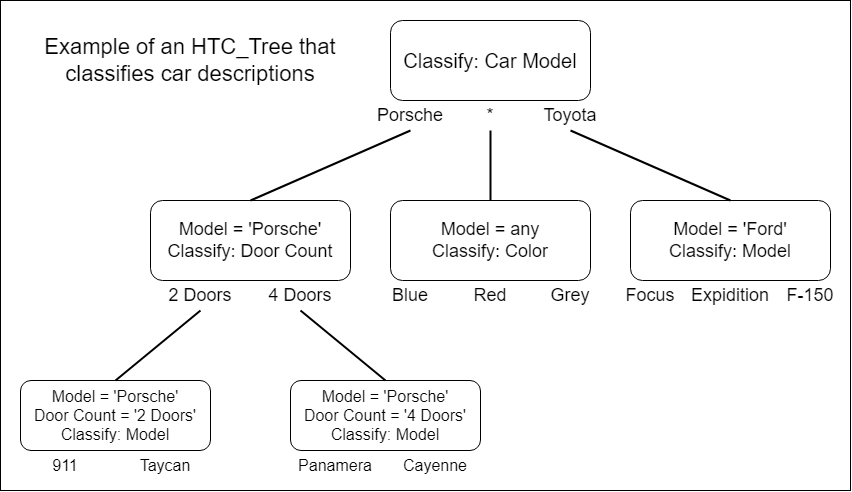
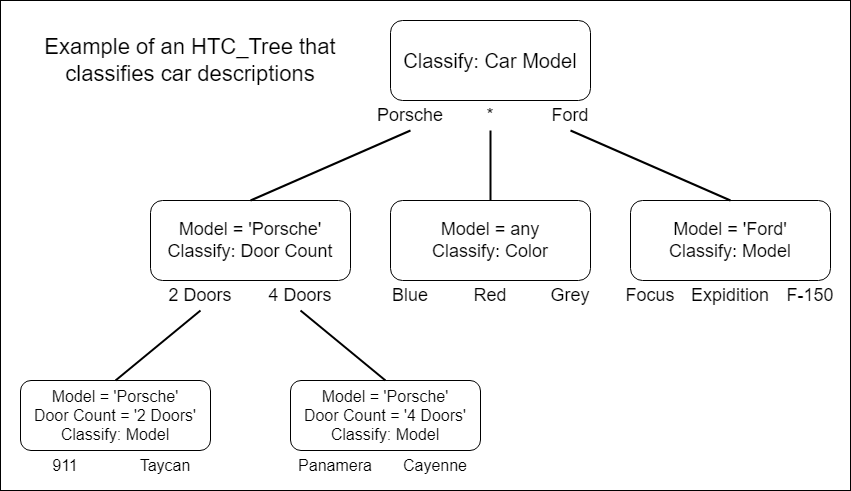
Documentation, bug fixes, print messages and verbose in node Predict
Added to README
Added more documentation
Added verbose to ClassificationNode Predict as kwarg
Fixed bug in predictions where sub node predictions didn't persist
Fixed diagram
Added flush=True to all print statements as it was hard to read otherwise
Updated some verbose messages in prediction
Predictions now replace 'NaN' with np.nan

diff --git a/module.py b/module.py
@@ -43,7 +43,6 @@ class Serializer:
         
         # Serializing Object:
         with open(file_path, 'wb') as file:
-            # if verbose: print(f"Saving {self} at '{file_path}' as Pickle... ", end='', flush=True)
             pickle.dump(self, file)
             if verbose: print(f"Object {self} Saved. Operation took {int((start_time-time.time())/60)}:{((start_time-time.time())%60):0.2f}s", flush=True)
 
@@ -128,7 +127,7 @@ class Ensemble(Serializer, Deserializer):
 
         if len(clean_data[self.train_targets].unique()) == 1:
             # warnings.warn(f"'{train_targets}' given training data with a single class.\nAll predictions will be this single class: '{clean_data[self.train_targets].unique()[0]}'.")
-            print(f"Warning: '{train_targets}' given training data with a single valid class. All predictions will be '{clean_data[self.train_targets].unique()[0]}'.")
+            print(f"Warning: '{train_targets}' given training data with a single valid class. All predictions will be '{clean_data[self.train_targets].unique()[0]}'.", flush=True)
             self.single_class = clean_data[self.train_targets].unique()[0]
             self.ready = True
             self.train_flag = False
@@ -206,23 +205,21 @@ class Ensemble(Serializer, Deserializer):
         
         if not input_column: input_column = self.train_features
         if not prediction_title: prediction_title = self.train_targets
-        if verbose: print(f"Ensemble predicting for {prediction_title}")
 
         if self.single_class != None:
             output = input.copy(deep=True)
             output[prediction_title] = self.single_class
-            output[prediction_title + " confidence"] = 1
+            output[prediction_title + " confidence"] = 1.0
+            if verbose: print(f"Fixed Label, predictions will be '{self.single_class}'", flush=True)
             return output
 
         predictions_df = pd.DataFrame(index=input.index)
 
+        if verbose: print(f"Ensemble predicting for {prediction_title}... ", end='', flush=True)
+
         # Run predictions for each model in ensemble:
         for model in self.models:
-            if verbose: print(f"model {self.models.index(model)} of {len(self.models)} predicting", end='\r', flush=True)
             predictions_df[str(self.models.index(model))] = model.Predict(input, input_column)
-        
-        # print(predictions_df.head())
-        if verbose: print(f"All Learners made predictions", end='\n\n', flush=True)
 
         # Tally model votes:
         predictions_df.reindex(input.index)
@@ -232,6 +229,8 @@ class Ensemble(Serializer, Deserializer):
         else:
             output[prediction_title] = predictions_df.mode(axis=1)[0]
             output[prediction_title + " confidence"] = predictions_df.apply(self._simple_vote, axis=1)
+
+        if verbose: print(f"Done.", flush=True)
 
         return output
   
@@ -418,7 +417,7 @@ class ClassificationNode(Serializer, Deserializer):
                     serializer(self.ensemble, self.ensemble_path, **kwargs)
 
         elif verbose:
-            print(f"'{self.ensemble.train_targets}' ensemble already trained.")
+            print(f"'{self.ensemble.train_targets}' ensemble already trained.", flush=True)
 
         # Check if this is a leaf node:
         if self.branches not in [None, {}]:
@@ -450,9 +449,14 @@ class ClassificationNode(Serializer, Deserializer):
         
 
     def Predict(self, input:pd.DataFrame, shallow=False, **kwargs) -> pd.DataFrame:
+        # Parse Kwargs:
+        verbose = 'verbose' in kwargs and kwargs['verbose']
+
         # Node ensemble making predictions:
         node_predictions = self.ensemble.Predict(input, **kwargs)
-        
+        if verbose: pass
+
+
         # Check if this is a leaf node:
         if self.branches not in [None, {}] and shallow == False:
             # For each key classification:
@@ -465,23 +469,32 @@ class ClassificationNode(Serializer, Deserializer):
                 
                 # Check if sub_node_data is empty:
                 if sub_node_data.shape[0] == 0:
-                    # print(f"no data to use for '{self.prediction_title}' at '{branch}'. {sub_node_data.shape[0]}/{node_predictions.shape[0]}")
+                    if verbose: print(f"No data present for '{self.prediction_title}'='{branch}'. {sub_node_data.shape[0]}/{node_predictions.shape[0]}", flush=True)
                     continue
+                elif verbose: print(f"Data present for '{self.prediction_title}'='{branch}.  {sub_node_data.shape[0]}/{node_predictions.shape[0]}", flush=True)
+                
+                sub_node_predictions = sub_node_data
+                # Set this as we want to keep each nodes predictions we have to
+                # pass them to the next as this is how we merge different node's
+                #  prediction DataFrames
 
                 # Run predictions for each branch: (New Columns)
                 for node in self.branches[branch]:
-                    # Recusrsive Call:
-                    sub_node_predictions = node.Predict(input=sub_node_data, **kwargs)
-                    # print(sub_node_predictions.head())
-                    if branch != '*':
+                    # Recusrsive Call: (each node's predictions are passed to the next here)
+                    sub_node_predictions = node.Predict(input=sub_node_predictions, **kwargs)
+
+                    # Merging Prediction DataFrames:
+                    if branch != '*': # Specific Label Branch:
                         column_indexer = sub_node_predictions.columns
                         row_indexer = node_predictions[self.prediction_title] == branch
                         node_predictions.loc[row_indexer, column_indexer] = sub_node_predictions[column_indexer]
                         node_predictions.loc[row_indexer, column_indexer] = sub_node_predictions[column_indexer]
-                    else:
-                        node_predictions = sub_node_predictions                    
-
-        return node_predictions
+                    else: # Wild Card Branch:
+                        node_predictions = sub_node_predictions 
+                
+                if verbose: print(f"All predictions made for '{self.prediction_title}'='{branch}'\n", flush=True)
+  
+        return node_predictions.replace('NaN', np.nan)
 
 
     def gernate_design(self, **kwargs) -> dict:
@@ -696,7 +709,7 @@ class ClassificationNode(Serializer, Deserializer):
         The <force_true> set of conditions are sorted out by passing this argument to _recursive_set_train_flags.
         '''
         if True not in self._recursive_set_train_flags(force_true=force_true, verbose=verbose, save_on_train=save_on_train, serializer=serializer):
-            if verbose: print(f"All models Trained, re-training all models.\n")
+            if verbose: print(f"All models Trained, re-training all models.\n", flush=True)
             if not force_true:
                 self._recursive_set_train_flags(force_true=True, verbose=verbose, save_on_train=save_on_train, serializer=serializer)
 
@@ -784,18 +797,18 @@ class ClassificationNode(Serializer, Deserializer):
 
         for branch in list(self.branches.keys()):
             if branch not in temp_node.branches.keys():
-                if verbose: print(f"Branch '{branch}' no longer present, removing")
+                if verbose: print(f"Branch '{branch}' no longer present, removing", flush=True)
                 self.branches.pop(branch)
 
         for branch in temp_node.branches.keys():
-            if verbose: print(f"\nBranch: '{branch}'", end=' ')
+            if verbose: print(f"\nBranch: '{branch}'", end=' ', flush=True)
 
             if branch not in self.branches.keys():
-                if verbose: print('new branch')
+                if verbose: print('new branch', flush=True)
                 self.branches[branch] = temp_node.branches[branch]
 
             else:
-                if verbose: print('not new. Checking sub nodes:')
+                if verbose: print('not new. Checking sub nodes:', flush=True)
                 current_node_titles = {}
                 for node in self.branches[branch]:
                     current_node_titles[node.prediction_title] = self.branches[branch].index(node)
@@ -807,11 +820,11 @@ class ClassificationNode(Serializer, Deserializer):
                 # Adding new nodes in this branch, and recursive call for already present nodes:
                 for title in temp_node_titles.keys():
                     if title not in current_node_titles.keys():
-                        if verbose: print(f"new Sub node: {title}")
+                        if verbose: print(f"new Sub node: {title}", flush=True)
                         self.branches[branch].append(temp_node.branches[branch][temp_node_titles[title]])
                     else:
                         # Recursive Call:
-                        if verbose: print(f"Not new Sub node: {title}")
+                        if verbose: print(f"Not new Sub node: {title}", flush=True)
                         self.branches[branch][current_node_titles[title]]._recursize_update(
                             temp_node.branches[branch][temp_node_titles[title]],
                             verbose=verbose
@@ -820,7 +833,7 @@ class ClassificationNode(Serializer, Deserializer):
                 # Removing nodes in this branch that are not present in new design:
                 for node in self.branches[branch]:
                     if node.prediction_title not in temp_node_titles.keys():
-                        if verbose: print(f"Sub node {title} no longer present. removing...")
+                        if verbose: print(f"Sub node {title} no longer present. removing...", flush=True)
                         self.branches[branch].pop(self.branches[branch].index(node))
 
     # Static Class Methods:

diff --git a/README.md b/README.md
@@ -9,10 +9,48 @@ This is a tree with each node representing a single classification and subsequen
 <br>This design would assume that, for whatever reason, Porsche models are 'easier' to predict if its first subdivided into the number of doors.
 
 ## Building a Tree
+To build an HTC_Tree structure we use Design Files
 
+### Design Files
+Design Files are Json files that dictate the structure and ensembles withing an HTC_Tree.
+<br>You use a Json in the below format to describe the structure of the tree, dictate the relevant columns, and provide an emsemble for each node.
+<br><br>On structure creation, each ensemble is assigned a random ID (unless one is provided in the Design File) and uses this to (if save_ensembles is True) save a copy of the ensemble at the given path.
+<br>When a Design File is generated by calling gernate_design(), the resulting file contains the Ensembles' IDs as well as the path to the already saved Ensembles.
+Meaning, when it saved the Ensembles they will be saved in the same place.
 
-### Design JSONs
+Sample Design File:
+```JSON
+{
+    "root": {
+        "ensemble path": "<path to pickled Ensemble()>",
+        "input column": "<input column>",
+        "prediction title": "<prediction title>",
+        "branches": {
+            "*": [ 
+                {
+                    "ensemble path": "<path to pickled Ensemble()>",
+                    "input column": "<input column>",
+                    "prediction title": "<prediction title>",
+                    "branches": {}
+                }
+            ],
+            "<a prediction label>": [
+                {
+                    "ensemble path": "<path to pickled Ensemble()>",
+                    "input column": "<input column>",
+                    "prediction title": "<prediction title>",
+                    "branches": {}
+                }
+            ]
+        }
+    },
+    "parameters": {
+        "verbose": true,
+        "save_ensembles": true
+    }    
+}
 
+```
 
 
 ## Visualizing a Tree
